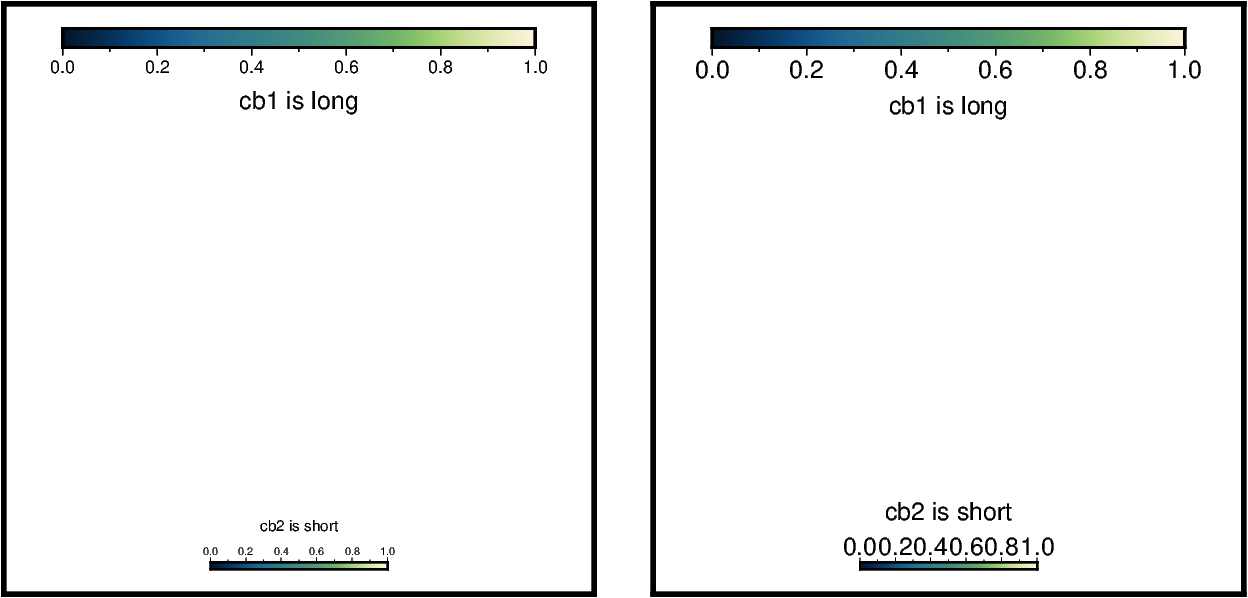
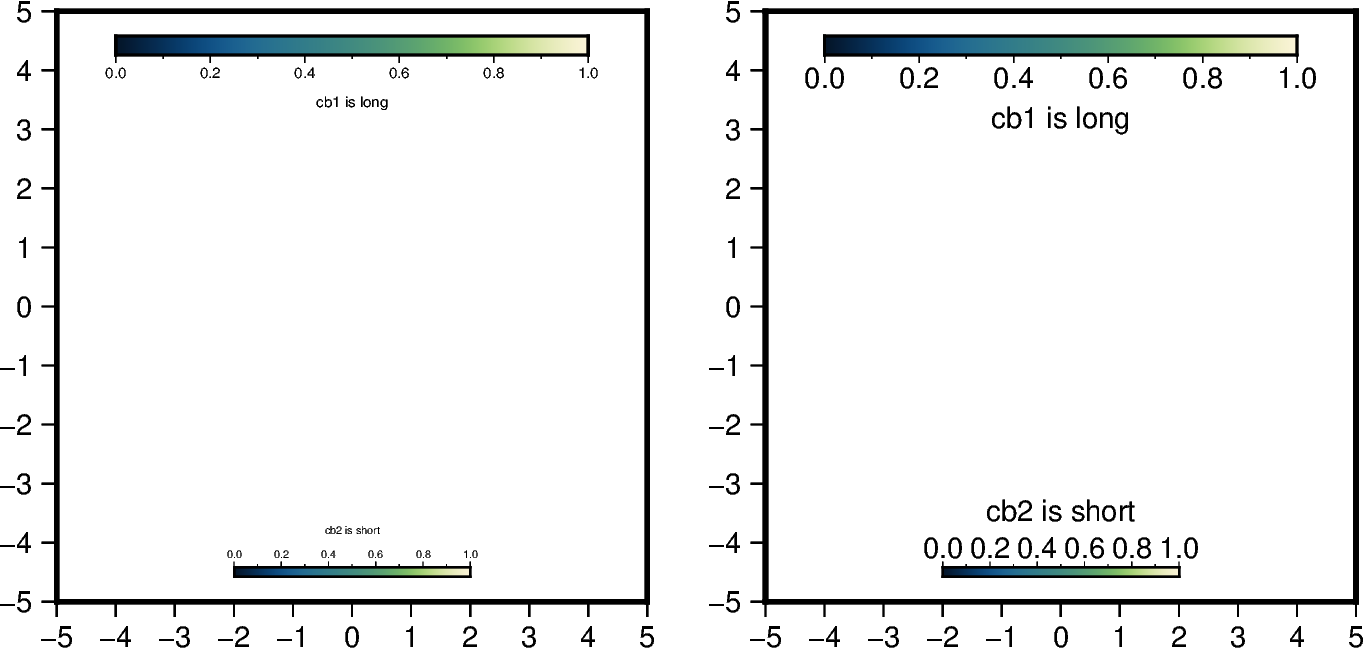
000_general_stuff/03_cb_font_scaling: Add annotations (#112)

Changed region(s): [[0.0, 0.0, 1.0, 1.0], [0.1875, 0.1505, 0.3125, 0.1806]]

diff --git a/000_general_stuff/03_cb_font_scaling/cb_font_scaling.py b/000_general_stuff/03_cb_font_scaling/cb_font_scaling.py
@@ -6,9 +6,10 @@
 # -----------------------------------------------------------------------------
 # History
 # - Created: 2024/11/26
+# - Updated: 2025/08/26 - add annotations
 # -----------------------------------------------------------------------------
 # Versions
-# - PyGMT v0.13.0 -> https://www.pygmt.org/v0.13.0/ | https://www.pygmt.org/
+# - PyGMT v0.16.0 -> https://www.pygmt.org/v0.16.0/ | https://www.pygmt.org/
 # - GMT 6.5.0 -> https://www.generic-mapping-tools.org/
 # -----------------------------------------------------------------------------
 # Contact
@@ -21,15 +22,13 @@
 import pygmt
 import numpy as np
 
-
 plot_size = 5
-font_size = 6
+font_size = 7
 
 cb1_width = 4
-cb2_width = 1.5
+cb2_width = 2
 cb1_label = "cb1 is long"
 cb2_label = "cb2 is short"
-
 
 # -----------------------------------------------------------------------------
 def scale_cb_font(cb_width):
@@ -38,25 +37,27 @@ def scale_cb_font(cb_width):
     return font_scaling
 # -----------------------------------------------------------------------------
 
-
-# -----------------------------------------------------------------------------
 fig = pygmt.Figure()
-fig.basemap(region=[-plot_size, plot_size] * 2, projection=f"X{plot_size}c", frame=0)
+
+# Left
+pygmt.config(FONT=font_size)
+fig.basemap(region=[-plot_size, plot_size] * 2, projection=f"X{plot_size}c", frame=1)
 
 fig.colorbar(cmap="navia", position=f"jTC+w{cb1_width}c+h", frame=f"x+l{cb1_label}")
 fig.colorbar(cmap="navia", position=f"jBC+w{cb2_width}c+h", frame=f"x+l{cb2_label}")
 
-# -----------------------------------------------------------------------------
-fig.shift_origin(xshift="5.5c")
-fig.basemap(region=[-plot_size, plot_size] * 2, projection=f"X{plot_size}c", frame=0)
+fig.shift_origin(xshift="6c")
 
-font_scaling = scale_cb_font(cb1_width)
-with pygmt.config(FONT=f"{font_size / font_scaling}"):
+# Right
+with pygmt.config(FONT=font_size):
+    fig.basemap(region=[-plot_size, plot_size] * 2, projection=f"X{plot_size}c", frame=1)
+
+font_scaling1 = scale_cb_font(cb1_width)
+with pygmt.config(FONT=f"{font_size / font_scaling1}"):
     fig.colorbar(cmap="navia", position=f"jTC+w{cb1_width}c+h", frame=f"x+l{cb1_label}")
-
-font_scaling = scale_cb_font(cb2_width)
-with pygmt.config(FONT=f"{font_size / font_scaling}"):
+font_scaling2 = scale_cb_font(cb2_width)
+with pygmt.config(FONT=f"{font_size / font_scaling2}"):
     fig.colorbar(cmap="navia", position=f"jBC+w{cb2_width}c+h", frame=f"x+l{cb2_label}")
 
-# -----------------------------------------------------------------------------
 fig.show()
+# fig.savefig(fname="cb_font_scaling.png")
